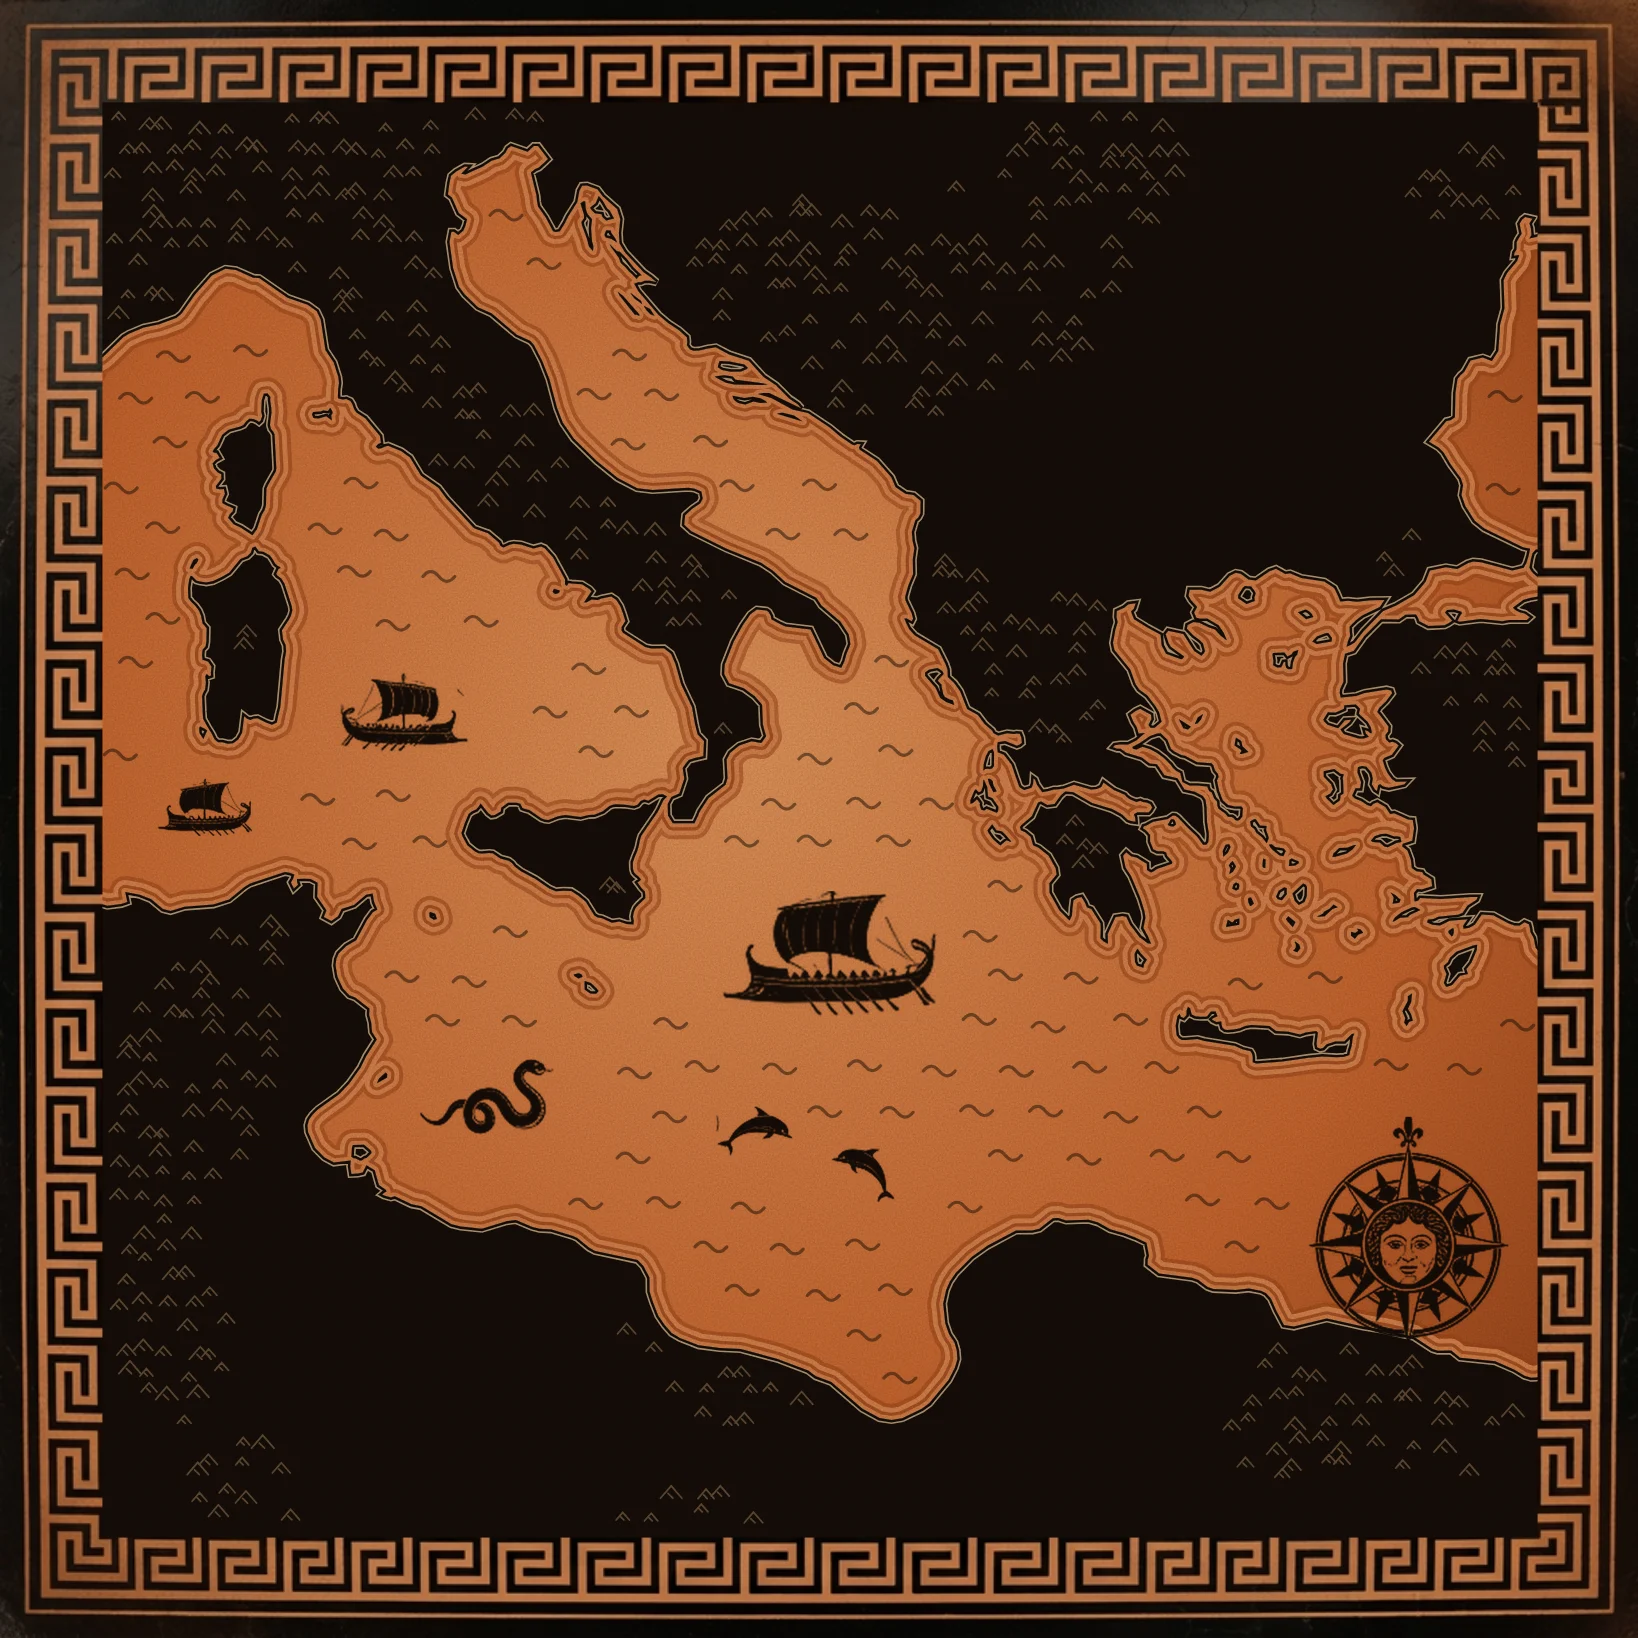
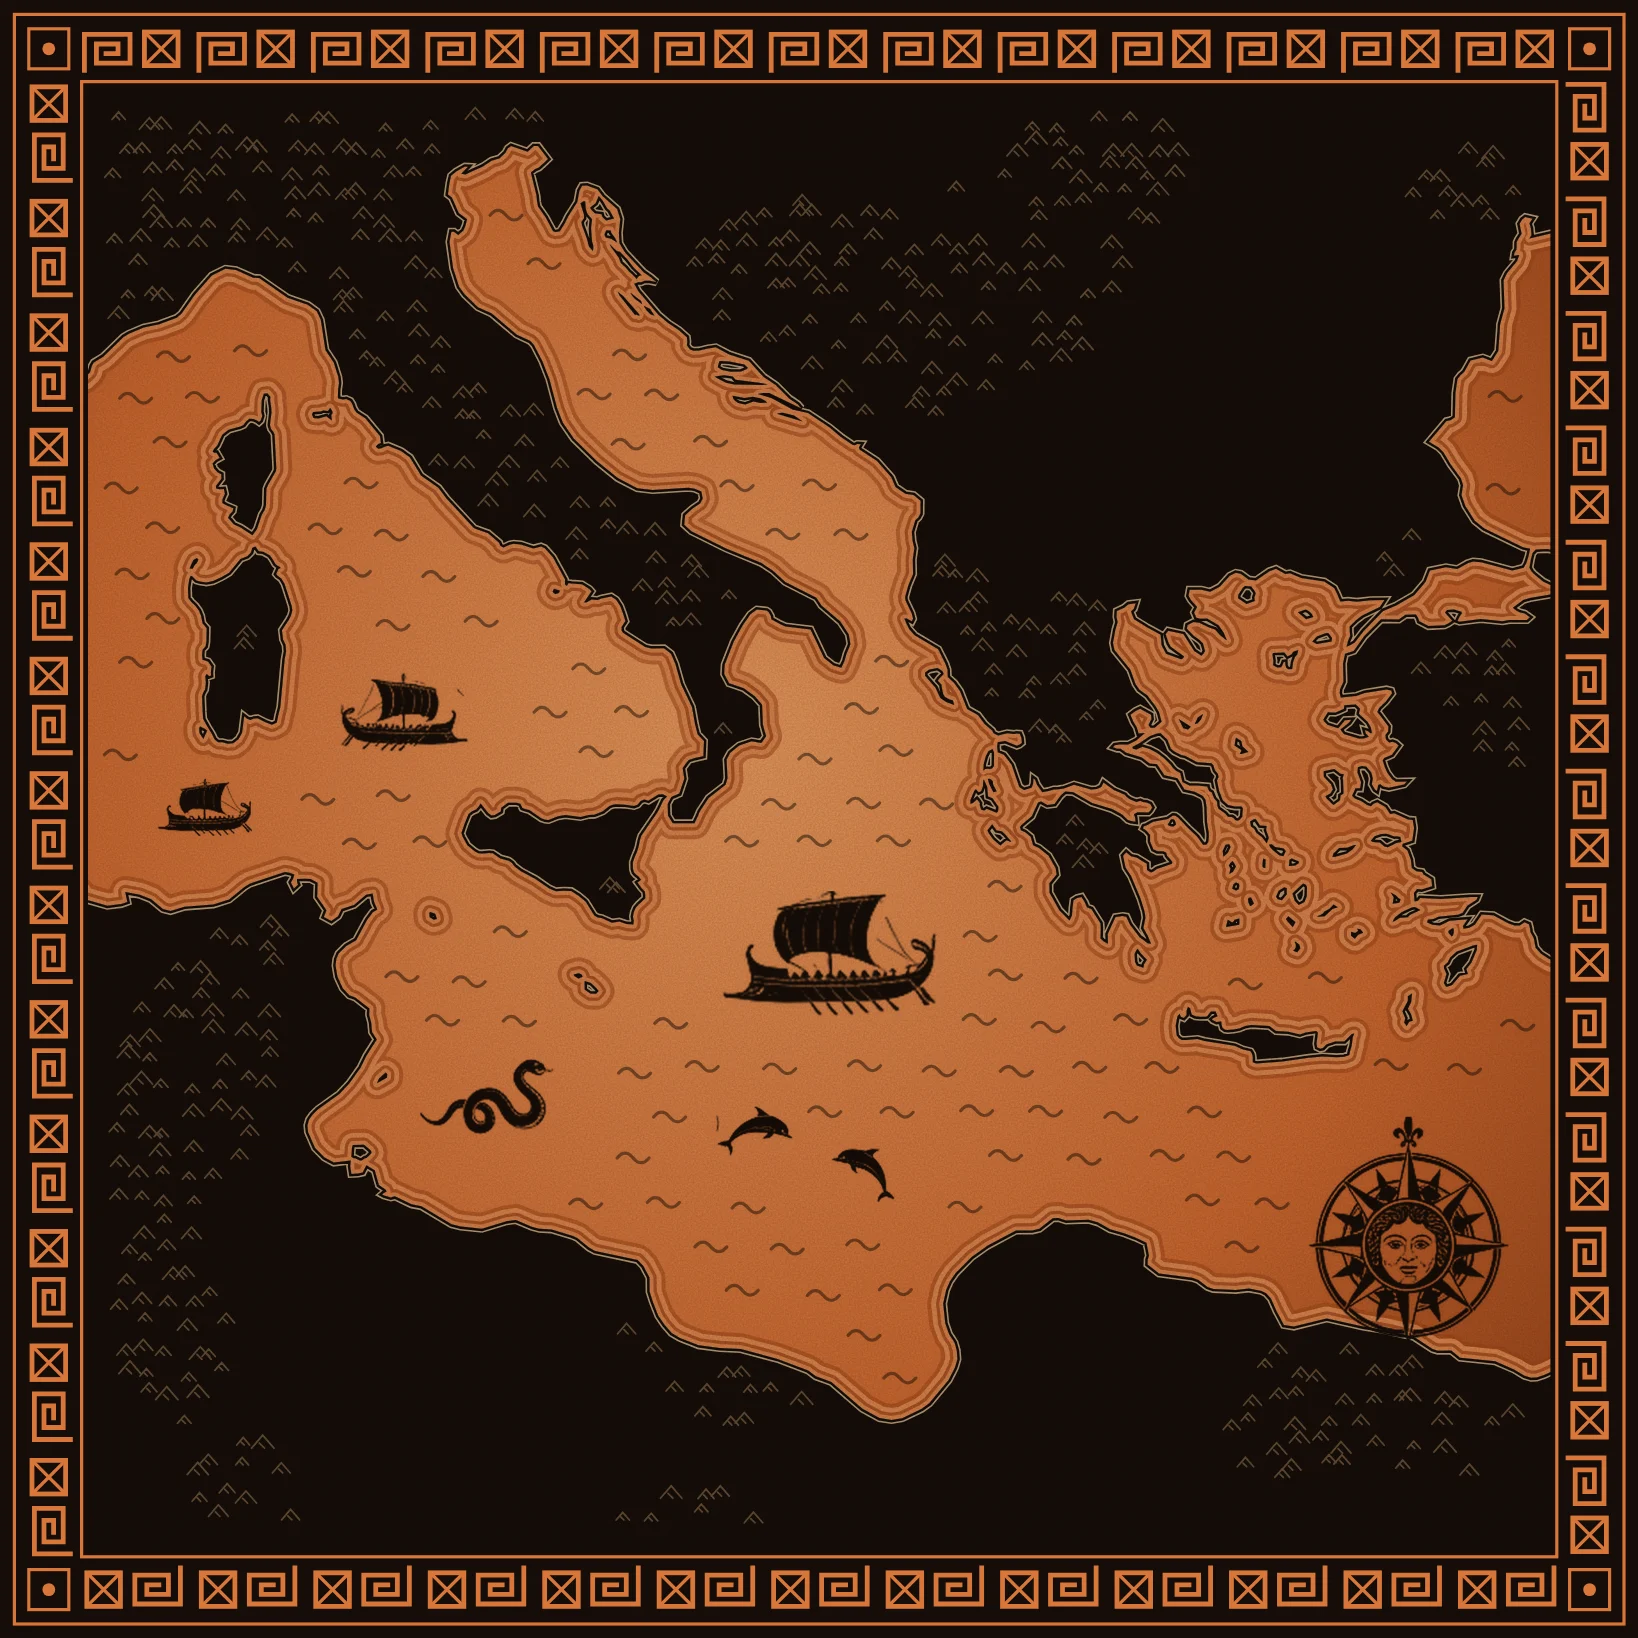
항해도 테두리를 반듯한 미로 문양으로 다시 그림 (AI 테두리 왜곡 제거)
Claude-Session: https://claude.ai/code/session_01846j4FexyGw72aSJypfP5q

Changed region(s): [[0.0, 0.0, 1.0, 1.0]]

diff --git a/map/compose.py b/map/compose.py
@@ -30,6 +30,30 @@ for y in range(76,950,15):
         if dland[Y,X]>14 and noise[Y,X]>.55 and random.random()<.7:
             s=random.uniform(4,7)
             mount+=f'<path d="M{xx-s:.1f} {yy+s*.55:.1f}L{xx:.1f} {yy-s*.6:.1f}L{xx+s:.1f} {yy+s*.55:.1f}M{xx-s*.3:.1f} {yy+s*.1:.1f}L{xx+s*.15:.1f} {yy+s*.55:.1f}"/>'
+C='#d9773a'; INK='#150d08'
+# meander unit 48x22 scaled x1.6 -> band 36px tall
+def unit(x,y,k):  # k = scale
+    p=f'<path d="M{x+4*k} {y+20*k}V{y+5*k}H{x+23*k}V{y+17*k}H{x+9*k}V{y+9*k}H{x+18*k}V{y+13*k}H{x+13*k}" fill="none" stroke="{C}" stroke-width="{2*k}" stroke-linecap="square"/>'
+    p+=f'<rect x="{x+29*k}" y="{y+4*k}" width="{14*k}" height="{14*k}" fill="none" stroke="{C}" stroke-width="{2*k}"/>'
+    p+=f'<path d="M{x+29*k} {y+4*k}L{x+43*k} {y+18*k}M{x+43*k} {y+4*k}L{x+29*k} {y+18*k}" stroke="{C}" stroke-width="{1.4*k}"/>'
+    return p
+k=1.5; band_h=22*k; M=14; T=M+band_h+8  # outer margin, inner edge
+L=1024
+inner=L-2*T
+n=round((L-2*M-2*band_h)/(48*k)); ul=(L-2*M-2*band_h)/n  # unit length along side
+def side():
+    g=''
+    for i in range(n):
+        g+=f'<g transform="translate({M+band_h+i*ul+(ul-48*k)/2:.2f},0)">'+unit(0,M,k)+'</g>'
+    return g
+top=side()
+frame=f'<rect x="0" y="0" width="{L}" height="{L}" fill="none" stroke="{INK}" stroke-width="{2*T}"/>'
+frame+=f'<rect x="{M-5}" y="{M-5}" width="{L-2*M+10}" height="{L-2*M+10}" fill="none" stroke="{C}" stroke-width="2"/>'
+frame+=f'<rect x="{T-4}" y="{T-4}" width="{L-2*T+8}" height="{L-2*T+8}" fill="none" stroke="{C}" stroke-width="2"/>'
+for rot in (0,90,180,270):
+    frame+=f'<g transform="rotate({rot} 512 512)">{top}</g>'
+for (cx,cy) in ((M,M),(L-M-band_h,M),(M,L-M-band_h),(L-M-band_h,L-M-band_h)):
+    frame+=f'<rect x="{cx+4}" y="{cy+4}" width="{band_h-8}" height="{band_h-8}" fill="none" stroke="{C}" stroke-width="2"/><circle cx="{cx+band_h/2}" cy="{cy+band_h/2}" r="4" fill="{C}"/>'
 svg=f'''<svg xmlns="http://www.w3.org/2000/svg" viewBox="0 0 1024 1024" width="1024" height="1024">
 <defs>
 <radialGradient id="lg" cx="45%" cy="45%" r="70%"><stop offset="0" stop-color="#e2955a"/><stop offset=".6" stop-color="#c8652e"/><stop offset="1" stop-color="#8e3f17"/></radialGradient>
@@ -52,6 +76,6 @@ svg=f'''<svg xmlns="http://www.w3.org/2000/svg" viewBox="0 0 1024 1024" width="1
 </g>
 {dec}
 <rect width="1024" height="1024" filter="url(#grain)"/>
-<image href="{b64('/tmp/mapai/ring.png')}" x="0" y="0" width="1024" height="1024"/>
+{frame}
 </svg>'''
 open('/tmp/mapai/compose.html','w').write('<body style="margin:0;background:#000">'+svg+'</body>')
